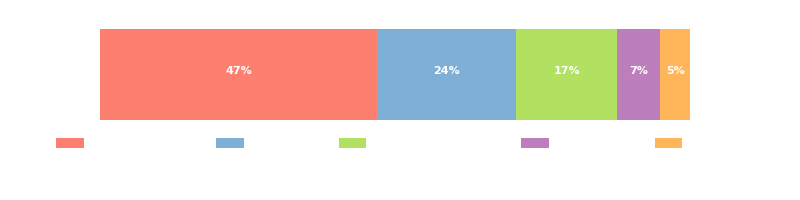
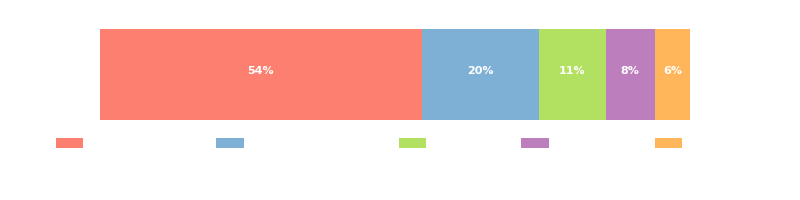
Cleaned up top languages program

diff --git a/data/top_languages.py b/data/top_languages.py
@@ -11,53 +11,65 @@ import matplotlib.pyplot as plt
 dotenv.load_dotenv()
 ACCESS_TOKEN = os.getenv("ACCESS_TOKEN")
 
+VERBOSE = False
 
-def fetch_github_top_languages(skip_repos: list) -> dict:
+
+def fetch_github_top_languages() -> dict:
+    print("[*] Fetching data from GitHub...")
     auth = github.Auth.Token(ACCESS_TOKEN)
     g = github.Github(auth=auth)
 
-    # Structure for counting language use
-    # Language is counted/stored as bytes (int)
-    langs = collections.defaultdict(int)
+    # Structure for counting repos metadata
     repos = dict()
 
     count = 0
     # Loop through all repos for the user
     for repo in g.get_user().get_repos():
-        # Skip repo is requested
-        if repo.full_name in skip_repos:
-            print(f"[*] Skipping: {repo.full_name}")
-            continue
-
-        print(f"[*] Processing: {repo.full_name}")
+        print(f"[*] Fetching: {repo.full_name}")
 
         # For the specific repo, get dict of languages used
         lang_dict = repo.get_languages()
-        for lang, size in lang_dict.items():
-            langs[lang] += size
-            print(f"    [*] {lang}: {size}")
-        
+
         # Also, save the repo languages
         repos[repo.full_name] = lang_dict
 
+        count += 1
         # Useful for testing, only fetch a couple repos
-        # count += 1
         # if count > 10:
         #      break
 
     # Save data
-    with open("langs.json", "w") as f:
-        json.dump(langs, f, indent=4)
     with open("repos.json", "w") as f:
         json.dump(repos, f, indent=4)
-    
+
     return langs
 
 
-def parse_github_top_languages(langs: list, skip_langs: list, count) -> dict:
-    # Remove erroneous languages
-    for language in skip_langs:
-        langs.pop(language)
+def parse_github_top_languages(
+    repos: list, skip_repos: list, skip_langs: list, count
+) -> dict:
+    print("[*] Parse data from GitHub...")
+
+    langs = collections.defaultdict(int)
+
+    for repo_name, langs_dict in repos.items():
+        # Skip repo if requested
+        if repo_name in skip_repos:
+            print(f"[*] Skipping repo: {repo_name}")
+            continue
+
+        print(f"[*] Processing repo: {repo_name}")
+
+        for language, size in langs_dict.items():
+            # Skip language if requested
+            if language.lower() in skip_langs:
+                if VERBOSE:
+                    print(f"    [*] {language}: {size} SKIPPING!")
+                continue
+
+            langs[language] += size
+            if VERBOSE:
+                print(f"    [*] {language}: {size}")
 
     # Sort languages by highest count
     langs = sorted(langs.items(), key=lambda x: x[1], reverse=True)
@@ -68,14 +80,17 @@ def parse_github_top_languages(langs: list, skip_langs: list, count) -> dict:
     # Sorted outputs a list of tuples, so convert back to dict
     langs = dict(langs)
 
-    print("[*] Top languages:")
-    for k, v in langs.items():
-        print(f"    [*] {k}: {v}")
+    if VERBOSE:
+        print("[*] Top languages:")
+        for k, v in langs.items():
+            print(f"    [*] {k}: {v}")
 
     return langs
 
 
 def plot_github_top_languages(langs, mode):
+    print("[*] Plotting data from GitHub...")
+
     # Crunch some data
     langs_total = sum(langs.values())
 
@@ -95,7 +110,7 @@ def plot_github_top_languages(langs, mode):
     ]
 
     # Set size of figure
-    fig = plt.figure(figsize=(8,2))
+    fig = plt.figure(figsize=(8, 2))
     ax = plt.subplot(111)
 
     # Plot the data
@@ -146,34 +161,85 @@ def plot_github_top_languages(langs, mode):
     ax.set_position([box.x0, box.y0 + box.height * 0.35, box.width, box.height * 0.65])
 
     ax.legend(
-        loc="upper center", bbox_to_anchor=(0.5, 0), fancybox=True, ncol=5, framealpha=0, labelcolor="black" if mode == "light" else "white"
+        loc="upper center",
+        bbox_to_anchor=(0.5, 0),
+        fancybox=True,
+        ncol=5,
+        framealpha=0,
+        labelcolor="black" if mode == "light" else "white",
     )
-    plt.savefig(f"top_languages_{mode}.png", format='png', transparent=True)
 
+    # Add a title
+    plt.title(
+        "Top Programming Languages",
+        {"color": "black" if mode == "light" else "white", "fontweight": "bold"},
+    )
 
-def main():
-    # Fetch data from GitHub to make chart
-    # skip_repos = [] 
-    # langs = None
-    # if not langs:
-    #     print("[*] Fetching data from GitHub...")
-    #     langs = fetch_github_top_languages(skip_repos)
-
-    # Parse the raw GitHub data
-    with open("langs.json") as f:
-        langs = json.load(f)
-    skip_langs = [
-        "Lua",
-        "TeX",
-        "HTML",
-    ]
-    count = 5
-    print("[*] Parse data from GitHub...")
-    langs = parse_github_top_languages(langs, skip_langs, count)
-
-    for mode in ["light", "dark"]:
-        plot_github_top_languages(langs, mode)
+    plt.savefig(f"top_languages_{mode}.png", format="png", transparent=True)
 
 
 if __name__ == "__main__":
-    main()
+    parser = argparse.ArgumentParser()
+    parser.add_argument(
+        "-r",
+        "--skip_repos",
+        nargs="+",
+        help="Repository names to exclude (e.g., owner/name)",
+        default=list(),
+        required=False,
+    )
+    parser.add_argument(
+        "-p",
+        "--skip_languages",
+        nargs="+",
+        help="Programming languages to exclude",
+        default=list(),
+        required=False,
+    )
+    parser.add_argument(
+        "-c",
+        "--count",
+        help="Count of languages to include on graph",
+        default=5,
+        required=False,
+    )
+    parser.add_argument(
+        "-l",
+        "--load",
+        action="store_true",
+        help="Load repo metadata from file",
+        default=True,
+        required=False,
+    )
+    parser.add_argument(
+        "-v",
+        "--verbose",
+        action="store_true",
+        help="Verbose output",
+        default=False,
+        required=False,
+    )
+    args = parser.parse_args()
+
+    skip_repos = args.skip_repos
+    skip_languages = args.skip_languages
+    count = int(args.count)
+    load = args.load
+    VERBOSE = args.verbose
+    print(skip_languages)
+
+    # Get repo metadata
+    # Load from file (repos.json) or re-dump
+    repos = None
+    if load:
+        with open("repos.json") as f:
+            repos = json.load(f)
+    else:
+        repos = fetch_github_top_languages()
+
+    # Process repos metadata to get top languages
+    langs = parse_github_top_languages(repos, skip_repos, skip_languages, count)
+
+    # Create a light + dark mode chart
+    for mode in ["light", "dark"]:
+        plot_github_top_languages(langs, mode)

diff --git a/README.md b/README.md
@@ -15,6 +15,8 @@
 
 - :link: Connect with me on [LinkedIn](https://www.linkedin.com/in/thomaslaurenson/)
 
+![Anurag's GitHub stats](https://github-readme-stats.vercel.app/api?username=thomaslaurenson&show_icons=true&theme=transparent)
+
 <picture>
 <source media="(prefers-color-scheme: dark)" srcset="data/top_languages_dark.png">
 <img alt="Thomas Laurenson's Top Programming Languages" src="data/top_languages_light.png">

diff --git a/data/README.md b/data/README.md
@@ -13,5 +13,5 @@ Make a personal access token (under Settings > Developer Settings > Personal acc
 python3 -m venv venv
 source ./venv/bin/activate
 pip3 install -r requirements.txt
-python3 top_languages.py
+python3 top_languages.py -p html tex lua -c 5 -l -r thomaslaurenson/arduino-lmic -v
 ```
